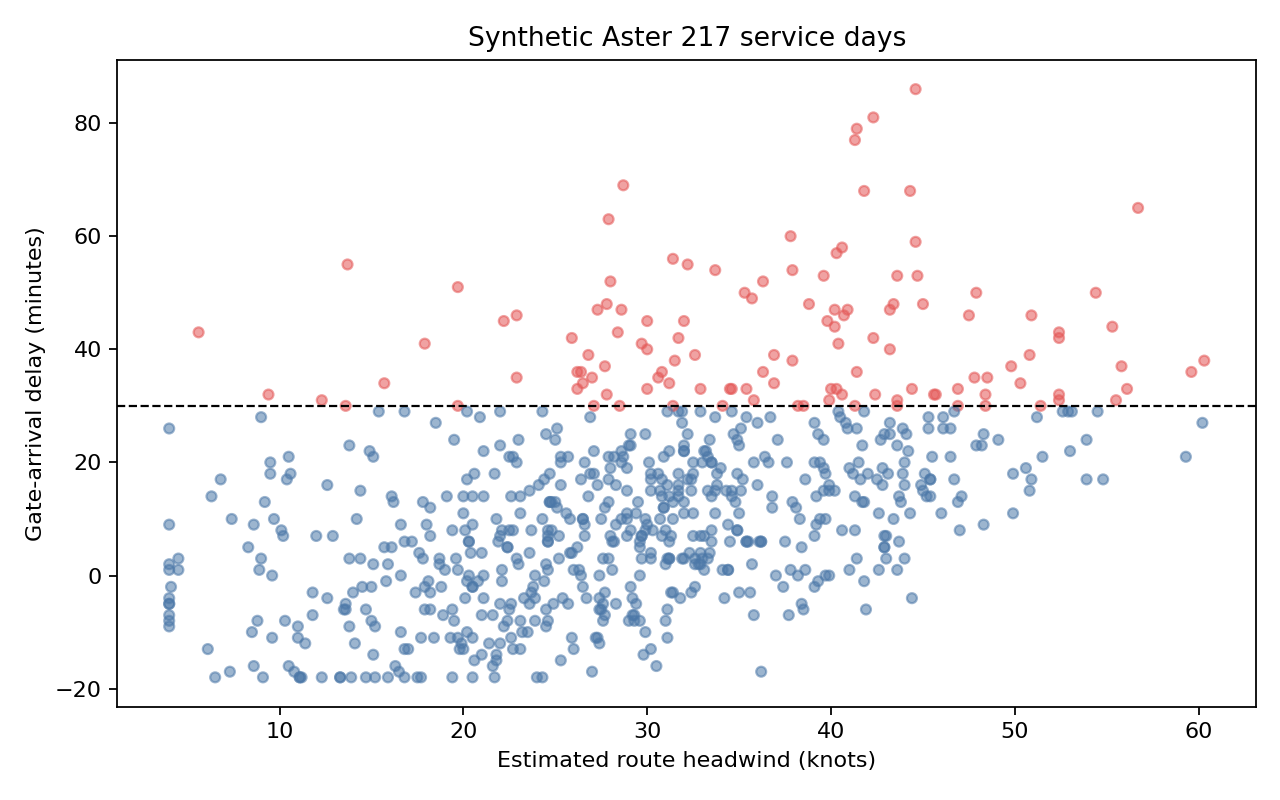
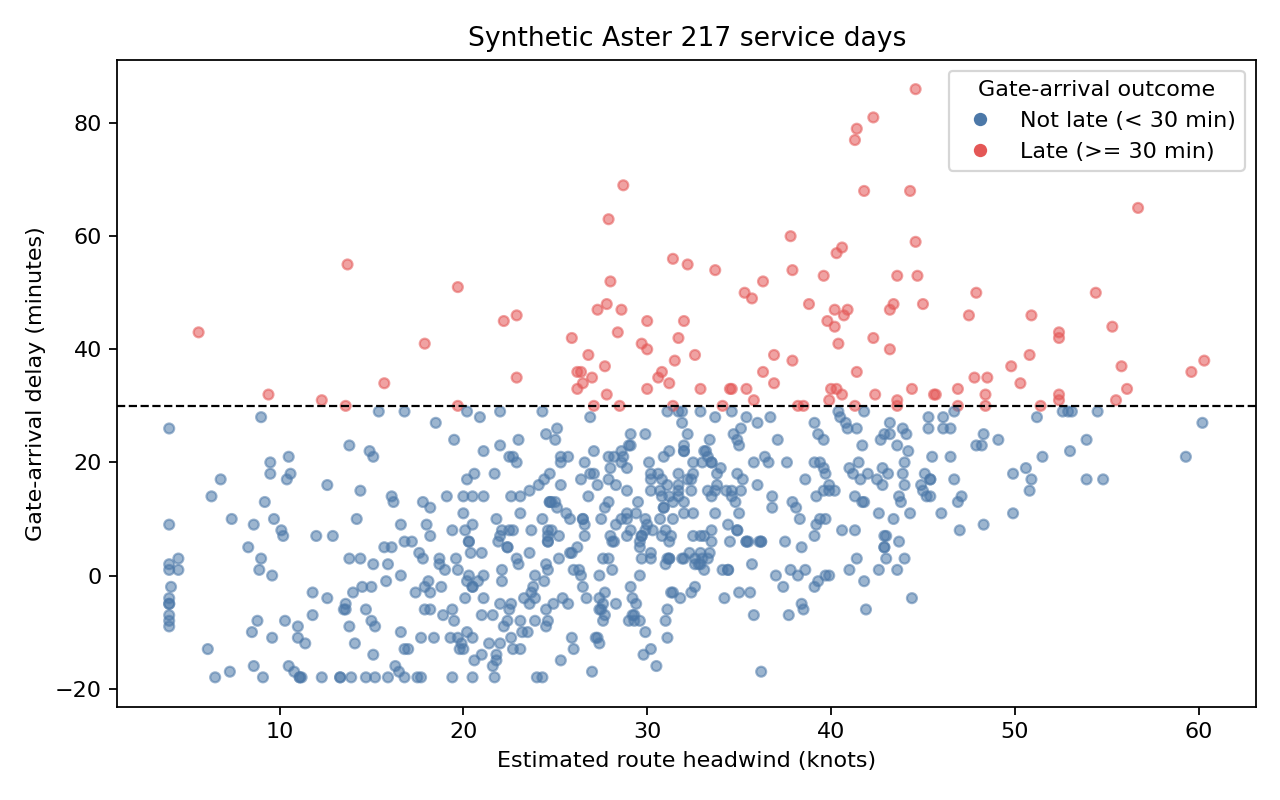
Project completion done by Codex

Changed region(s): [[0.75, 0.0938, 0.9688, 0.2188]]

diff --git a/build_zero_studio.py b/build_zero_studio.py
@@ -6,13 +6,15 @@ from pathlib import Path
 
 import matplotlib.pyplot as plt
 import pandas as pd
-from sklearn.metrics import accuracy_score, confusion_matrix
+from matplotlib.lines import Line2D
+from sklearn.metrics import ConfusionMatrixDisplay, accuracy_score, confusion_matrix
 from sklearn.model_selection import train_test_split
 from sklearn.tree import DecisionTreeClassifier, export_text
 
 
 DATA = Path(__file__).with_name("flight217_build_zero.csv")
 FIGURE = Path(__file__).with_name("build_zero_scatter.png")
+CONFUSION_FIGURE = Path(__file__).with_name("build_zero_confusion_matrix.png")
 flights = pd.read_csv(DATA)
 
 print("Shape:", flights.shape)
@@ -37,16 +39,19 @@ axis.axhline(30, color="black", linestyle="--", linewidth=1)
 axis.set_title("Synthetic Aster 217 service days")
 axis.set_xlabel("Estimated route headwind (knots)")
 axis.set_ylabel("Gate-arrival delay (minutes)")
+axis.legend(
+    handles=[
+        Line2D([], [], marker="o", color="w", label="Not late (< 30 min)",
+               markerfacecolor="#4C78A8", markersize=7),
+        Line2D([], [], marker="o", color="w", label="Late (>= 30 min)",
+               markerfacecolor="#E45756", markersize=7),
+    ],
+    title="Gate-arrival outcome",
+)
 axis.figure.tight_layout()
 axis.figure.savefig(FIGURE, dpi=160)
 plt.close(axis.figure)
 print(f"\nSaved {FIGURE.name}")
-
-# %% Establish a baseline
-majority_class = int(flights["late_30"].mode().iloc[0])
-baseline_accuracy = float((flights["late_30"] == majority_class).mean())
-print(f"\nMajority class: {majority_class}")
-print(f"Baseline accuracy: {baseline_accuracy:.3f}")
 
 # %% Define a provisional predictive task
 features = [
@@ -66,14 +71,41 @@ X_train, X_test, y_train, y_test = train_test_split(
     stratify=y,
 )
 
+# %% Establish a held-out baseline
+# Choose the majority class using training labels only, then evaluate it on the
+# same held-out rows used for the tree.
+majority_class = int(y_train.mode().iloc[0])
+baseline_predictions = [majority_class] * len(y_test)
+baseline_accuracy = accuracy_score(y_test, baseline_predictions)
+print(f"\nHeld-out majority class: {majority_class}")
+print(f"Held-out majority baseline accuracy: {baseline_accuracy:.3f}")
+
 # %% Fit an inspectable model
 tree = DecisionTreeClassifier(max_depth=4, random_state=217)
 tree.fit(X_train, y_train)
 predictions = tree.predict(X_test)
+tree_accuracy = accuracy_score(y_test, predictions)
+counts = confusion_matrix(y_test, predictions, labels=[0, 1])
 
-print(f"\nTree accuracy: {accuracy_score(y_test, predictions):.3f}")
+print(f"\nTree accuracy: {tree_accuracy:.3f}")
+print(f"Tree improvement over held-out baseline: {tree_accuracy - baseline_accuracy:.3f}")
 print("Confusion matrix [[TN, FP], [FN, TP]]:")
-print(confusion_matrix(y_test, predictions))
+print(counts)
+
+# %% Agent-requested bounded change: readable count-based confusion matrix
+display = ConfusionMatrixDisplay(
+    confusion_matrix=counts,
+    display_labels=["Not late (< 30 min)", "Late (>= 30 min)"],
+)
+display.plot(cmap="Blues", values_format="d")
+display.ax_.set_title("Held-out synthetic Aster 217 classifications")
+display.ax_.set_xlabel("Predicted class")
+display.ax_.set_ylabel("Actual class")
+display.figure_.tight_layout()
+display.figure_.savefig(CONFUSION_FIGURE, dpi=160)
+plt.close(display.figure_)
+print(f"Saved {CONFUSION_FIGURE.name}")
+
 print("\nLearned rules:")
 print(export_text(tree, feature_names=features))
 

diff --git a/build_zero_record.md b/build_zero_record.md
@@ -1,0 +1,62 @@
+# Build Zero analysis record
+
+## Analysis contract
+
+- **Audience:** Elena Park, Aster network operations controller, using this as a teaching-case analysis.
+- **Question:** Using information available four hours before scheduled gate arrival, will a synthetic Aster 217 service day finish at least 30 minutes late to the gate?
+- **Descriptive story mode:** Describe represented conditions and eventual outcomes in the synthetic service-day table.
+- **Predictive story mode:** Classify a represented synthetic service day as `late_30` or not from the permitted four-hour snapshot features.
+- **Possible action:** A human may use a warning to inspect arrival plans and constraints. It does not authorize an automated gate assignment or operational decision.
+- **Prediction boundary:** Four hours before scheduled gate arrival.
+- **Unsupported claim:** This evidence cannot establish that the tree understands flight delays, explains their causes, works for a real airline, or should control an operational decision.
+
+Each row represents one synthetic Aster 217 service day. The table combines information available at a common four-hour prediction snapshot with outcomes that became known later. Known snapshot fields include the identifier and date, snapshot timing metadata, `departure_delay_min`, `headwind_kts`, `destination_weather_index`, `arrival_demand_index`, and `weather_snapshot_age_min`. `final_gate_wait_min`, `arrival_delay_min`, and the derived label `late_30` are known only later. Therefore, the latter three fields are not model features.
+
+## Descriptive story and artifact
+
+**Question:** In the synthetic service-day records, how do estimated route headwind and eventual gate-arrival delay appear together?
+
+The chart [`build_zero_scatter.png`](build_zero_scatter.png) plots estimated headwind against the later gate-arrival delay. Stronger headwinds tend to appear alongside larger delays, but flights at similar headwind values occur on both sides of the 30-minute threshold. This is a descriptive pattern in the generated dataset; it does not show that headwind alone determines or causes delay.
+
+## Predictive story, baseline, and result
+
+The target is `late_30`: whether the later gate-arrival delay was at least 30 minutes. The only features are `departure_delay_min`, `headwind_kts`, `destination_weather_index`, and `arrival_demand_index`, all designated as available at the four-hour snapshot. The program uses the supplied stratified 75/25 random split (`random_state=217`) and a depth-4 decision tree (`random_state=217`).
+
+The majority class is chosen from training labels and predicts **not late** for every held-out row. On the 180 held-out rows, its accuracy is **0.828** (149/180). The shallow tree accuracy is **0.850** (153/180), an increase of **0.022** or four correctly classified held-out rows.
+
+The tree confusion matrix, with rows as actual and columns as predicted, is:
+
+| Actual / predicted | Not late | Late |
+| --- | ---: | ---: |
+| Not late | 143 (TN) | 6 (FP) |
+| Late | 21 (FN) | 10 (TP) |
+
+The labeled count display is [`build_zero_confusion_matrix.png`](build_zero_confusion_matrix.png). The warranted conclusion is only: **the fitted tree classified held-out synthetic rows under this split.**
+
+## Agent contribution and review
+
+**Exact instruction given to the agent:**
+
+> In the supplied Build Zero program, add a readable confusion-matrix display. Do not change the dataset, feature list, target, split, random seed, model, or predictions. Show me the proposed edit and explain how I can test that the underlying four counts did not change.
+
+**Bounded change:** The program retains the existing `confusion_matrix` calculation and adds a `ConfusionMatrixDisplay` using those same count values. It writes a labeled figure with raw integer counts, explicit actual/predicted axes, and the `Not late (< 30 min)` and `Late (>= 30 min)` labels.
+
+**Visible result:** `build_zero_confusion_matrix.png` shows the four counts 143, 6, 21, and 10.
+
+**Check 1 -- same predictive procedure:** The feature list, target, split size, stratification, random seed, depth-4 tree, and `predictions = tree.predict(X_test)` statement remain unchanged. The display consumes `counts` produced from those predictions; it does not fit or predict again.
+
+**Check 2 -- count integrity and labels:** The printed matrix and the display both contain `[[143, 6], [21, 10]]`. These four cells sum to 180, the held-out test-set size. The declared row/column orientation makes those cells TN=143, FP=6, FN=21, and TP=10 rather than an ambiguous label order.
+
+**Judgment:** Accepted. The change is bounded to presentation, retains raw counts, and makes the four outcomes readable without changing the model or its predictions.
+
+## Demonstrated capability
+
+The program can fit an inspectable shallow decision tree to permitted four-hour snapshot fields, evaluate it on held-out synthetic rows, display the four error types, and classify the supplied fictional current-flight snapshot.
+
+## Questions the score does not answer
+
+1. Does a random split provide an honest evaluation of a future service day when conditions may change over time?
+2. How were the forecast-derived headwind, weather, and demand fields produced, and how do stale or incorrect inputs affect the result?
+3. Which error type matters more to passengers and operations: a false warning or missing a late flight?
+4. Does the tree-leaf late share behave like a calibrated probability?
+5. Which gate, corridor, passenger, crew, and authority constraints are absent from this represented predictive task?
